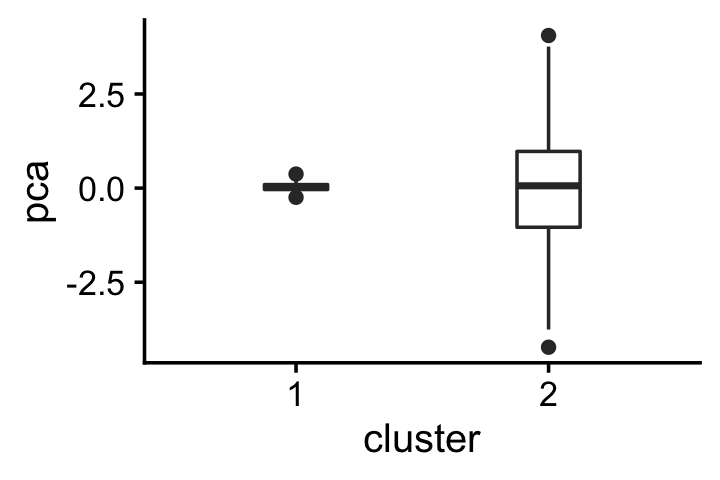
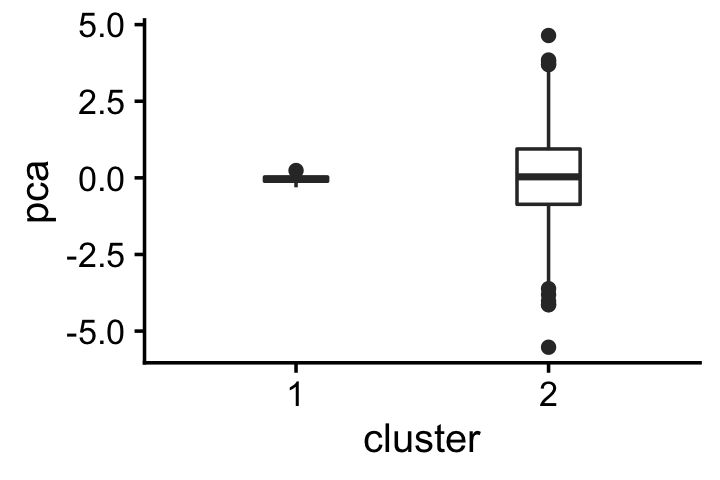
Added second flash fit to tsne_vs_factors demo.

diff --git a/docs/tsne_vs_factors.html b/docs/tsne_vs_factors.html
@@ -329,7 +329,7 @@ div.section {
 <div class="tab-content">
 <div id="summary" class="tab-pane fade in active">
 <p>
-<strong>Last updated:</strong> 2020-10-13
+<strong>Last updated:</strong> 2020-10-14
 </p>
 <p>
 <strong>Checks:</strong> <span class="glyphicon glyphicon-ok text-success" aria-hidden="true"></span> 7 <span class="glyphicon glyphicon-exclamation-sign text-danger" aria-hidden="true"></span> 0
@@ -420,16 +420,16 @@ This reproducible <a href="http://rmarkdown.rstudio.com">R Markdown</a> analysis
 <div class="panel panel-default">
 <div class="panel-heading">
 <p class="panel-title">
-<a data-toggle="collapse" data-parent="#workflowr-checks" href="#strongRepositoryversionstrongahrefhttpsgithubcompcarbopcarbotree23c00813f535adb13ef5bec9736aebe13bbbd688targetblank23c0081a"> <span class="glyphicon glyphicon-ok text-success" aria-hidden="true"></span> <strong>Repository version:</strong> <a href="https://github.com/pcarbo/pcarbo/tree/23c00813f535adb13ef5bec9736aebe13bbbd688" target="_blank">23c0081</a> </a>
+<a data-toggle="collapse" data-parent="#workflowr-checks" href="#strongRepositoryversionstrongahrefhttpsgithubcompcarbopcarbotree3a07bb962636a2bbd59907cf85760333250c9af1targetblank3a07bb9a"> <span class="glyphicon glyphicon-ok text-success" aria-hidden="true"></span> <strong>Repository version:</strong> <a href="https://github.com/pcarbo/pcarbo/tree/3a07bb962636a2bbd59907cf85760333250c9af1" target="_blank">3a07bb9</a> </a>
 </p>
 </div>
[2 lines of base64/hex data omitted]
 <div class="panel-body">
 <p>
 Great! You are using Git for version control. Tracking code development and connecting the code version to the results is critical for reproducibility.
 </p>
 <p>
-The results in this page were generated with repository version <a href="https://github.com/pcarbo/pcarbo/tree/23c00813f535adb13ef5bec9736aebe13bbbd688" target="_blank">23c0081</a>. See the <em>Past versions</em> tab to see a history of the changes made to the R Markdown and HTML files.
+The results in this page were generated with repository version <a href="https://github.com/pcarbo/pcarbo/tree/3a07bb962636a2bbd59907cf85760333250c9af1" target="_blank">3a07bb9</a>. See the <em>Past versions</em> tab to see a history of the changes made to the R Markdown and HTML files.
 </p>
 <p>
 Note that you need to be careful to ensure that all relevant files for the analysis have been committed to Git prior to generating the results (you can use <code>wflow_publish</code> or <code>wflow_git_commit</code>). workflowr only checks the R Markdown file, but you know if there are other scripts or data files that it depends on. Below is the status of the Git repository when the results were generated:
@@ -736,6 +736,40 @@ Message
 Rmd
 </td>
 <td>
+<a href="https://github.com/pcarbo/pcarbo/blob/3a07bb962636a2bbd59907cf85760333250c9af1/analysis/tsne_vs_factors.Rmd" target="_blank">3a07bb9</a>
+</td>
+<td>
+Peter Carbonetto
+</td>
+<td>
+2020-10-14
+</td>
+<td>
+workflowr::wflow_publish(“tsne_vs_factors.Rmd”)
+</td>
+</tr>
+<tr>
+<td>
+html
+</td>
+<td>
+<a href="https://rawcdn.githack.com/pcarbo/pcarbo/8320e440be41cf0ea8cca9a9c7496941d3d705ff/docs/tsne_vs_factors.html" target="_blank">8320e44</a>
+</td>
+<td>
+Peter Carbonetto
+</td>
+<td>
+2020-10-13
+</td>
+<td>
+Modified clustering example in tsne_vs_factors demo.
+</td>
+</tr>
+<tr>
+<td>
+Rmd
+</td>
+<td>
 <a href="https://github.com/pcarbo/pcarbo/blob/23c00813f535adb13ef5bec9736aebe13bbbd688/analysis/tsne_vs_factors.Rmd" target="_blank">23c0081</a>
 </td>
 <td>
@@ -897,7 +931,7 @@ library(Rtsne)
 library(flashier)
 library(ggplot2)
 library(cowplot)
-set.seed(1)</code></pre>
+set.seed(2)</code></pre>
 <p>Consider the following data set. The 2-d data vectors are simulated so that they cluster into two sets. The second cluster varies much more along the first and second dimensions.</p>
 <pre class="r"><code>X &lt;- rbind(rmvnorm(300,c(-2,+2),diag(2)/30),
            rmvnorm(1000,c(0,0),rbind(c(3,2.9),
@@ -906,8 +940,8 @@ cluster &lt;- factor(c(rep(1,300),rep(2,1000)))
 colnames(X) &lt;- c(&quot;x1&quot;,&quot;x2&quot;)
 p1 &lt;- qplot(X[,1],X[,2],shape = I(21),color = I(&quot;white&quot;),fill = cluster) +
   scale_fill_manual(values = c(&quot;tomato&quot;,&quot;dodgerblue&quot;)) +
-  xlim(-6,6) +
-  ylim(-6,6) +
+  xlim(-7,7) +
+  ylim(-7,7) +
   labs(x = &quot;x1&quot;,y = &quot;x2&quot;) +
   theme_cowplot(font_size = 12)
 print(p1)</code></pre>
@@ -934,6 +968,17 @@ Date
 </tr>
 </thead>
 <tbody>
+<tr>
+<td>
+<a href="https://github.com/pcarbo/pcarbo/blob/8320e440be41cf0ea8cca9a9c7496941d3d705ff/docs/figure/tsne_vs_factors.Rmd/sim-data-1.png" target="_blank">8320e44</a>
+</td>
+<td>
+Peter Carbonetto
+</td>
+<td>
+2020-10-13
+</td>
+</tr>
 <tr>
 <td>
 <a href="https://github.com/pcarbo/pcarbo/blob/2953d4410ecd16498e043435a24f524ea069ca9e/docs/figure/tsne_vs_factors.Rmd/sim-data-1.png" target="_blank">2953d44</a>
@@ -993,6 +1038,17 @@ Date
 <tbody>
 <tr>
 <td>
+<a href="https://github.com/pcarbo/pcarbo/blob/8320e440be41cf0ea8cca9a9c7496941d3d705ff/docs/figure/tsne_vs_factors.Rmd/pca-1.png" target="_blank">8320e44</a>
+</td>
+<td>
+Peter Carbonetto
+</td>
+<td>
+2020-10-13
+</td>
+</tr>
+<tr>
+<td>
 <a href="https://github.com/pcarbo/pcarbo/blob/f7b5c9d08c273bd4965a306edc2a5745fb4c0ef1/docs/figure/tsne_vs_factors.Rmd/pca-1.png" target="_blank">f7b5c9d</a>
 </td>
 <td>
@@ -1050,6 +1106,17 @@ Date
 <tbody>
 <tr>
 <td>
+<a href="https://github.com/pcarbo/pcarbo/blob/8320e440be41cf0ea8cca9a9c7496941d3d705ff/docs/figure/tsne_vs_factors.Rmd/tsne-1.png" target="_blank">8320e44</a>
+</td>
+<td>
+Peter Carbonetto
+</td>
+<td>
+2020-10-13
+</td>
+</tr>
+<tr>
+<td>
 <a href="https://github.com/pcarbo/pcarbo/blob/5426424a214560699cfb3091143ffcfc7c6a8689/docs/figure/tsne_vs_factors.Rmd/tsne-1.png" target="_blank">5426424</a>
 </td>
 <td>
@@ -1063,52 +1130,33 @@ Peter Carbonetto
 </table>
 </div>
 </div>
-<p>FLASH with one factor does no better than PCA in separating the two clusters, at least with the default prior choices.</p>
-<pre class="r"><code>fl &lt;- flash(X,greedy.Kmax = 1,var.type = 2,nullcheck = FALSE,verbose.lvl = 0)
-fl &lt;- drop(fl$loadings.pm[[1]])
-pdat &lt;- data.frame(cluster,flash = fl)
+<p>FLASH with the default prior choices does no better than PCA in separating the two clusters.</p>
+<pre class="r"><code>fl1 &lt;- flash(X,greedy.Kmax = 1,nullcheck = FALSE,verbose.lvl = 0)
+fl1 &lt;- drop(fl1$loadings.pm[[1]])
+pdat &lt;- data.frame(cluster,flash = fl1)
 p4 &lt;- ggplot(pdat,aes(x = cluster,y = flash)) +
   geom_boxplot(width = 0.25) +
   theme_cowplot(font_size = 12)
 print(p4)</code></pre>
-<p><img src="figure/tsne_vs_factors.Rmd/flash-1.png" width="360" style="display: block; margin: auto;" /></p>
-<p>
-<button type="button" class="btn btn-default btn-xs btn-workflowr btn-workflowr-fig" data-toggle="collapse" data-target="#fig-flash-1">
-Past versions of flash-1.png
-</button>
-</p>
-<div id="fig-flash-1" class="collapse">
-<div class="table-responsive">
-<table class="table table-condensed table-hover">
-<thead>
-<tr>
-<th>
-Version
-</th>
-<th>
-Author
-</th>
-<th>
-Date
-</th>
-</tr>
-</thead>
-<tbody>
-<tr>
-<td>
-<a href="https://github.com/pcarbo/pcarbo/blob/5426424a214560699cfb3091143ffcfc7c6a8689/docs/figure/tsne_vs_factors.Rmd/flash-1.png" target="_blank">5426424</a>
-</td>
-<td>
-Peter Carbonetto
-</td>
-<td>
-2020-10-12
-</td>
-</tr>
-</tbody>
-</table>
-</div>
-</div>
+<p><img src="figure/tsne_vs_factors.Rmd/flash-1-1.png" width="360" style="display: block; margin: auto;" /></p>
+<p>By contrast, FLASH with a unimodal prior on the loadings <em>can</em> separate the two clusters so long as a random initialization is used.</p>
+<pre class="r"><code>fl2 &lt;- flash.init(X)
+fl2 &lt;- flash.init.factors(fl2,list(matrix(rnorm(nrow(X))),
+                                   matrix(rnorm(ncol(X)))),
+                          prior.family = c(prior.unimodal(),prior.normal()))
+fl2 &lt;- flash.backfit(fl2)
+fl2 &lt;- drop(fl2$loadings.pm[[1]])
+pdat &lt;- data.frame(cluster,flash = fl2)
+p5 &lt;- ggplot(pdat,aes(x = cluster,y = flash)) +
+  geom_boxplot(width = 0.25) +
+  theme_cowplot(font_size = 12)
+print(p5)</code></pre>
+<p><img src="figure/tsne_vs_factors.Rmd/flash-2-1.png" width="360" style="display: block; margin: auto;" /></p>
+<pre><code># Backfitting 1 factors (tolerance: 3.87e-05)...
+#   Difference between iterations is within 1.0e+01...
+#   Difference between iterations is within 1.0e+00...
+# Wrapping up...
+# Done.</code></pre>
 <br>
 <p>
 <button type="button" class="btn btn-default btn-workflowr btn-workflowr-sessioninfo" data-toggle="collapse" data-target="#workflowr-sessioninfo" style="display: block;">
